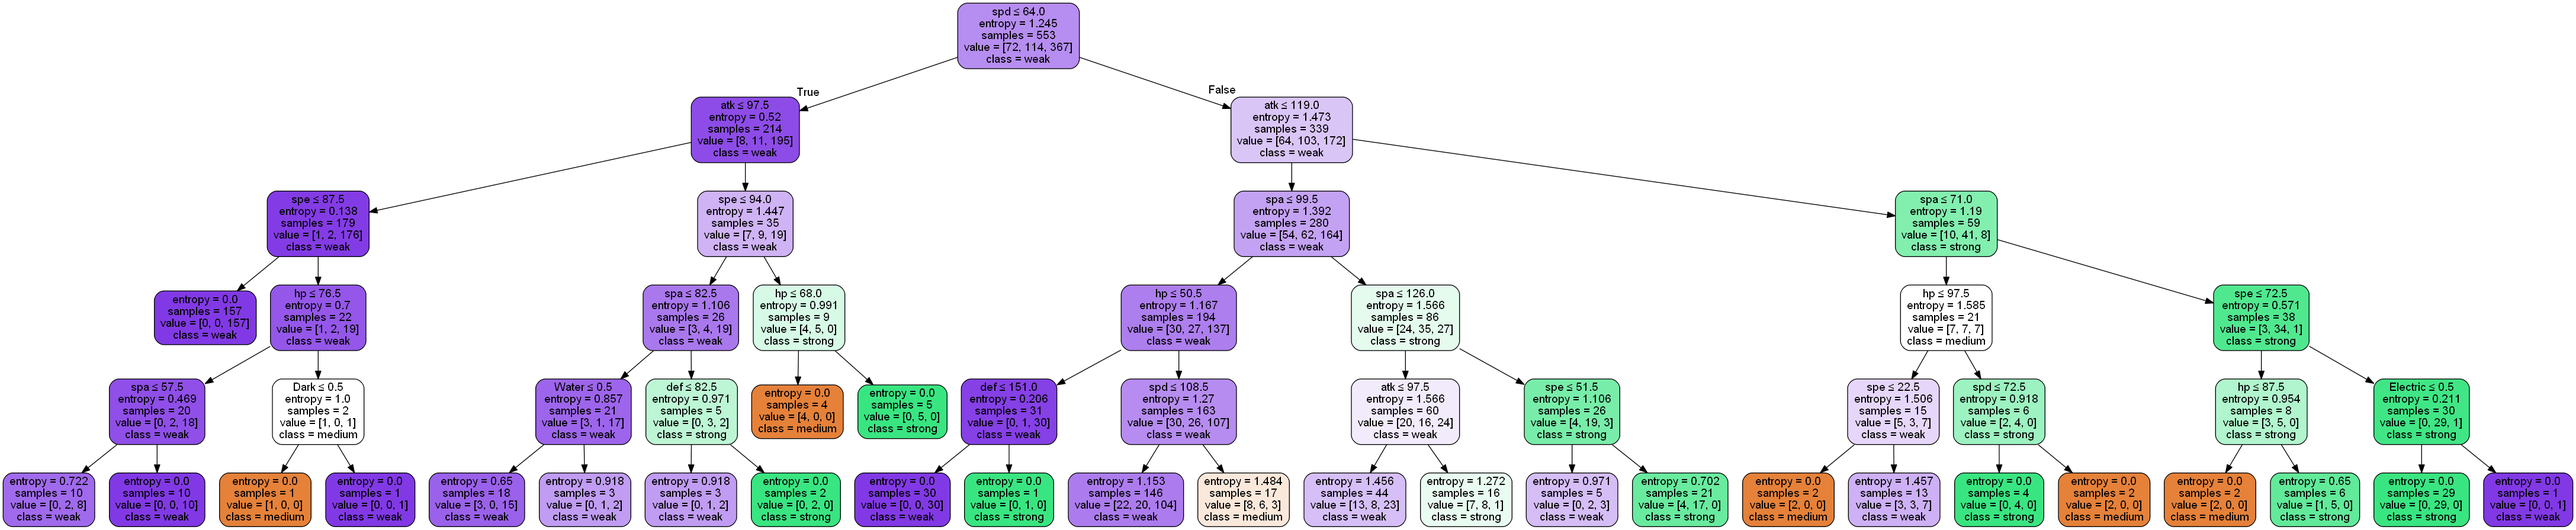
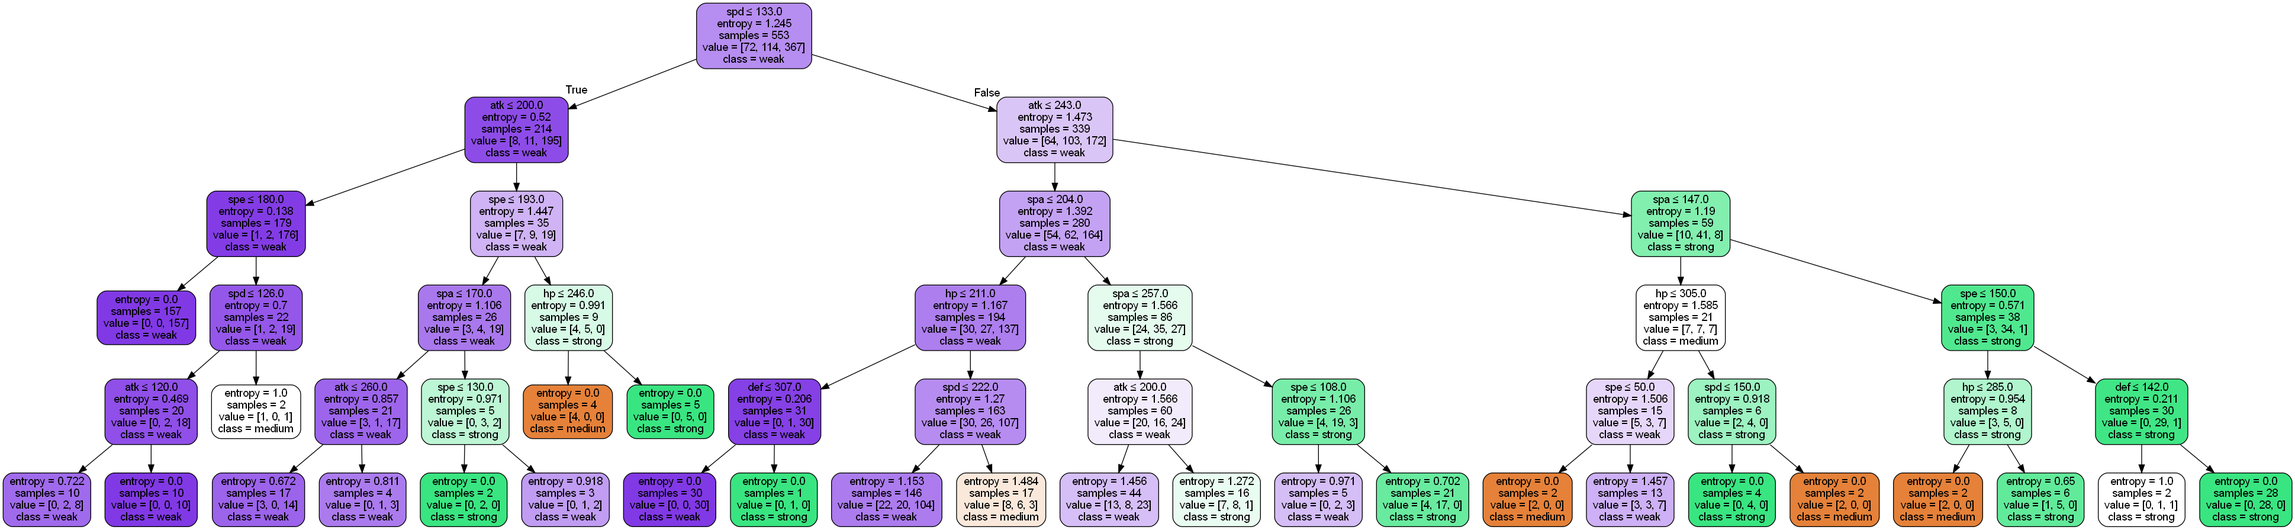
work knn

diff --git a/src/CombinedScrapper/generator.py b/src/CombinedScrapper/generator.py
@@ -2,24 +2,20 @@
 # coding: utf-8
 
 # In[1]:
-
 import json
-
 import httplib2
 import pandas as pd
-
 import numpy
 import sklearn
-
 
 def pokedex():
     http = httplib2.Http()
     status, response = http.request(f'https://play.pokemonshowdown.com/data/pokedex.json')
     pokedex = json.loads(response)
     list_pokemon = []
-    for pokemon in pokedex:
-         if pokedex[pokemon]['num'] > 151:
-             list_pokemon.append(pokemon)
+    #for pokemon in pokedex:
+         #if pokedex[pokemon]['num'] > 151:
+             #list_pokemon.append(pokemon)
 
     for pokemon in pokedex:
         if pokedex[pokemon]['num'] < 1:
@@ -34,8 +30,8 @@ def pokedex():
             list_pokemon.append(pokemon)
         if str(pokedex[pokemon].get('tier', "")) == "Illegal":
             list_pokemon.append(pokemon)
-        if str(pokedex[pokemon].get('evos', "")) != "":
-            list_pokemon.append(pokemon)
+        #if str(pokedex[pokemon].get('evos', "")) != "":
+            #list_pokemon.append(pokemon)
     list_pokemon = set(list_pokemon)
     for pokemon in list_pokemon:
         del pokedex[pokemon]
@@ -77,9 +73,9 @@ def pokedex_df():
     i = 0
     for pokemon in poke:
         list = [poke[pokemon]['name'], poke[pokemon]['num'],
-                poke[pokemon]['baseStats']['hp'], poke[pokemon]['baseStats']['atk'],
-                poke[pokemon]['baseStats']['def'], poke[pokemon]['baseStats']['spa'],
-                poke[pokemon]['baseStats']['spd'], poke[pokemon]['baseStats']['spe'],
+                poke[pokemon]['baseStats']['hp']*2+110, poke[pokemon]['baseStats']['atk']*2+5,
+                poke[pokemon]['baseStats']['def']*2+5, poke[pokemon]['baseStats']['spa']*2+5,
+                poke[pokemon]['baseStats']['spd']*2+5, poke[pokemon]['baseStats']['spe']*2+5,
                 poke[pokemon]['abilities']['0'], poke[pokemon]['abilities']['1'],
                 poke[pokemon]['abilities']['H'], switch(str(poke[pokemon]['tier'])), switch_int(str(poke[pokemon]['tier'])),
                 type('Bug', poke[pokemon]), type('Dark', poke[pokemon]), type('Dragon', poke[pokemon]),
@@ -145,9 +141,10 @@ def type(type, pok):
     else:
         return 0
 
+
 def poke_data_set():
     df = pokedex_df()
-    feature_cols = ['hp', 'atk', 'def', 'spa', 'spd', 'spe']
+    feature_cols = ['hp', 'atk','spa',  'spe']
     return sklearn.utils.Bunch(data= (df[feature_cols].to_numpy()).astype('float'),  target_names=numpy.array(['weak' ,'medium', 'strong']), target=(df.tierint.to_numpy()).astype('int'), feature_names = feature_cols )
 
 

diff --git a/src/knn/knn_iris2.py b/src/knn/knn_iris2.py
@@ -1,0 +1,60 @@
+# -*- coding: utf-8 -*-
+"""
+Created on Sun Apr  8 15:54:45 2018
+
+@author: Wandrille
+"""
+
+import numpy as np
+import matplotlib.pyplot as plt
+from sklearn import datasets
+from sklearn.model_selection import train_test_split
+from sklearn.preprocessing import StandardScaler
+from sklearn.neighbors import KNeighborsClassifier
+from sklearn.metrics import classification_report, confusion_matrix
+
+# import some data to play with
+from CombinedScrapper.generator import poke_data_set
+
+poke = poke_data_set()
+
+# we only take the first two features. We could avoid this ugly
+# slicing by using a two-dim dataset
+
+X, y = poke.data, poke.target
+y=y.astype('int')
+
+X_train, X_test, y_train, y_test = train_test_split(X, y, test_size=0.30,  random_state=42)
+
+scaler = StandardScaler()
+scaler.fit(X_train)
+
+X_train = scaler.transform(X_train)
+X_test = scaler.transform(X_test)
+
+classifier = KNeighborsClassifier(n_neighbors=20)
+classifier.fit(X_train, y_train)
+
+y_pred = classifier.predict(X_test)
+
+print(y_pred)  # 0 correspond to weak, 1 to medium and 2 to Strong
+
+print(confusion_matrix(y_test, y_pred))
+print(classification_report(y_test, y_pred))
+
+error = []
+
+# Calculating error for K values between 1 and 40
+for i in range(1, 40):
+    knn = KNeighborsClassifier(n_neighbors=i)
+    knn.fit(X_train, y_train)
+    pred_i = knn.predict(X_test)
+    error.append(np.mean(pred_i != y_test))
+
+plt.figure(figsize=(12, 6))
+plt.plot(range(1, 40), error, color='red', linestyle='dashed', marker='o',
+         markerfacecolor='blue', markersize=10)
+plt.title('Error Rate K Value')
+plt.xlabel('K Value')
+plt.ylabel('Mean Error')
+plt.show()

diff --git a/src/knn/__init__.py b/src/knn/__init__.py
@@ -7,23 +7,16 @@ from sklearn.model_selection import train_test_split
 from sklearn.neighbors import KNeighborsClassifier
 from sklearn import metrics
 
-from pokedex.pokedexGenerator.generator import pokedex_df
+from CombinedScrapper.generator import pokedex_df
 
 def X_Y_knn():
     df = pokedex_df()
 
-    feature_cols = ['hp', 'atk', 'def', 'spa', 'spd', 'spe', 'Bug', 'Dark', 'Dragon', 'Electric',
-                    'Fairy', 'Fighting', 'Fire', 'Flying', 'Ghost', 'Grass', 'Ground',
-                     'Ice', 'Normal', 'Poison', 'Psychic', 'Rock', 'Steel', 'Water']
+    feature_cols = ['hp', 'atk', 'def', 'spa', 'spd', 'spe']
     X = df[feature_cols] # Features
     y = df.tier # Target variable
 
-    print(X)
-    print(y)
-
-
-
-    X_train, X_test, y_train, y_test = train_test_split(X, y.astype(str), test_size=0.25, random_state=1) # 70% training and 30% test
+    X_train, X_test, y_train, y_test = train_test_split(X, y.astype(str), test_size=0.30, random_state=42) # 70% training and 30% test
 
     knn = KNeighborsClassifier(n_neighbors=5)
 
@@ -38,7 +31,3 @@ def X_Y_knn():
     return X_train, X_test, y_train, y_test
 
 X_Y_knn()
-
-X, y = make_moons(noise=0.3, random_state=0)
-print( X)
-print( y )

diff --git a/src/knn/pca.py b/src/knn/pca.py
@@ -8,8 +8,6 @@ from sklearn.pipeline import make_pipeline
 
 from CombinedScrapper.generator import poke_data_set
 
-print(__doc__)
-
 RANDOM_STATE = 42
 FIG_SIZE = (10, 7)
 
@@ -24,12 +22,12 @@ X_train, X_test, y_train, y_test = train_test_split(features, target,
                                                     random_state=RANDOM_STATE)
 
 # Fit to data and predict using pipelined GNB and PCA.
-unscaled_clf = make_pipeline(PCA(n_components=2), GaussianNB())
+unscaled_clf = make_pipeline(PCA(n_components=4), GaussianNB())
 unscaled_clf.fit(X_train, y_train)
 pred_test = unscaled_clf.predict(X_test)
 
 # Fit to data and predict using pipelined scaling, GNB and PCA.
-std_clf = make_pipeline(StandardScaler(), PCA(n_components=2), GaussianNB())
+std_clf = make_pipeline(StandardScaler(), PCA(n_components=4), GaussianNB())
 std_clf.fit(X_train, y_train)
 pred_test_std = std_clf.predict(X_test)
 

diff --git a/src/treelearning/__init__.py b/src/treelearning/__init__.py
@@ -27,9 +27,7 @@ print(df['tier'].value_counts())
 # df['abilitie2']= LabelEncoder().fit_transform(df['abilitie2'])
 # df['abilitieH']= LabelEncoder().fit_transform(df['abilitieH'])
 #split dataset in features and target variable
-feature_cols = ['hp', 'atk', 'def', 'spa', 'spd', 'spe', 'Bug', 'Dark', 'Dragon', 'Electric',
-                'Fairy', 'Fighting', 'Fire', 'Flying', 'Ghost', 'Grass', 'Ground',
-                 'Ice', 'Normal', 'Poison', 'Psychic', 'Rock', 'Steel', 'Water']
+feature_cols = ['hp', 'atk', 'def', 'spa', 'spd', 'spe']
 X = df[feature_cols] # Features
 y = df.tier # Target variable
 

diff --git a/src/randomforest/plot_forest_importances.py b/src/randomforest/plot_forest_importances.py
@@ -24,7 +24,7 @@ X_train, X_test, y_train, y_test = train_test_split( X, y, test_size=0.30, rando
 # A random forest classifier will be fitted to compute the feature importances.
 from sklearn.ensemble import RandomForestClassifier
 
-forest = RandomForestClassifier(random_state=0, criterion="entropy", max_depth=5)
+forest = RandomForestClassifier(random_state=0, criterion="entropy", max_depth=10)
 forest.fit(X_train, y_train)
 y_pred = forest.predict(X_test)
 print(y_pred)

diff --git a/src/knn/knn_iris.py b/src/knn/knn_iris.py
@@ -21,7 +21,7 @@ poke = poke_data_set()
 # slicing by using a two-dim dataset
 X = iris.data[:, :2]
 print(X)
-X = poke.data[:, :2]
+X = poke.data[:, :2].astype('int')
 print(X)
 y = iris.target
 print(y.shape)
